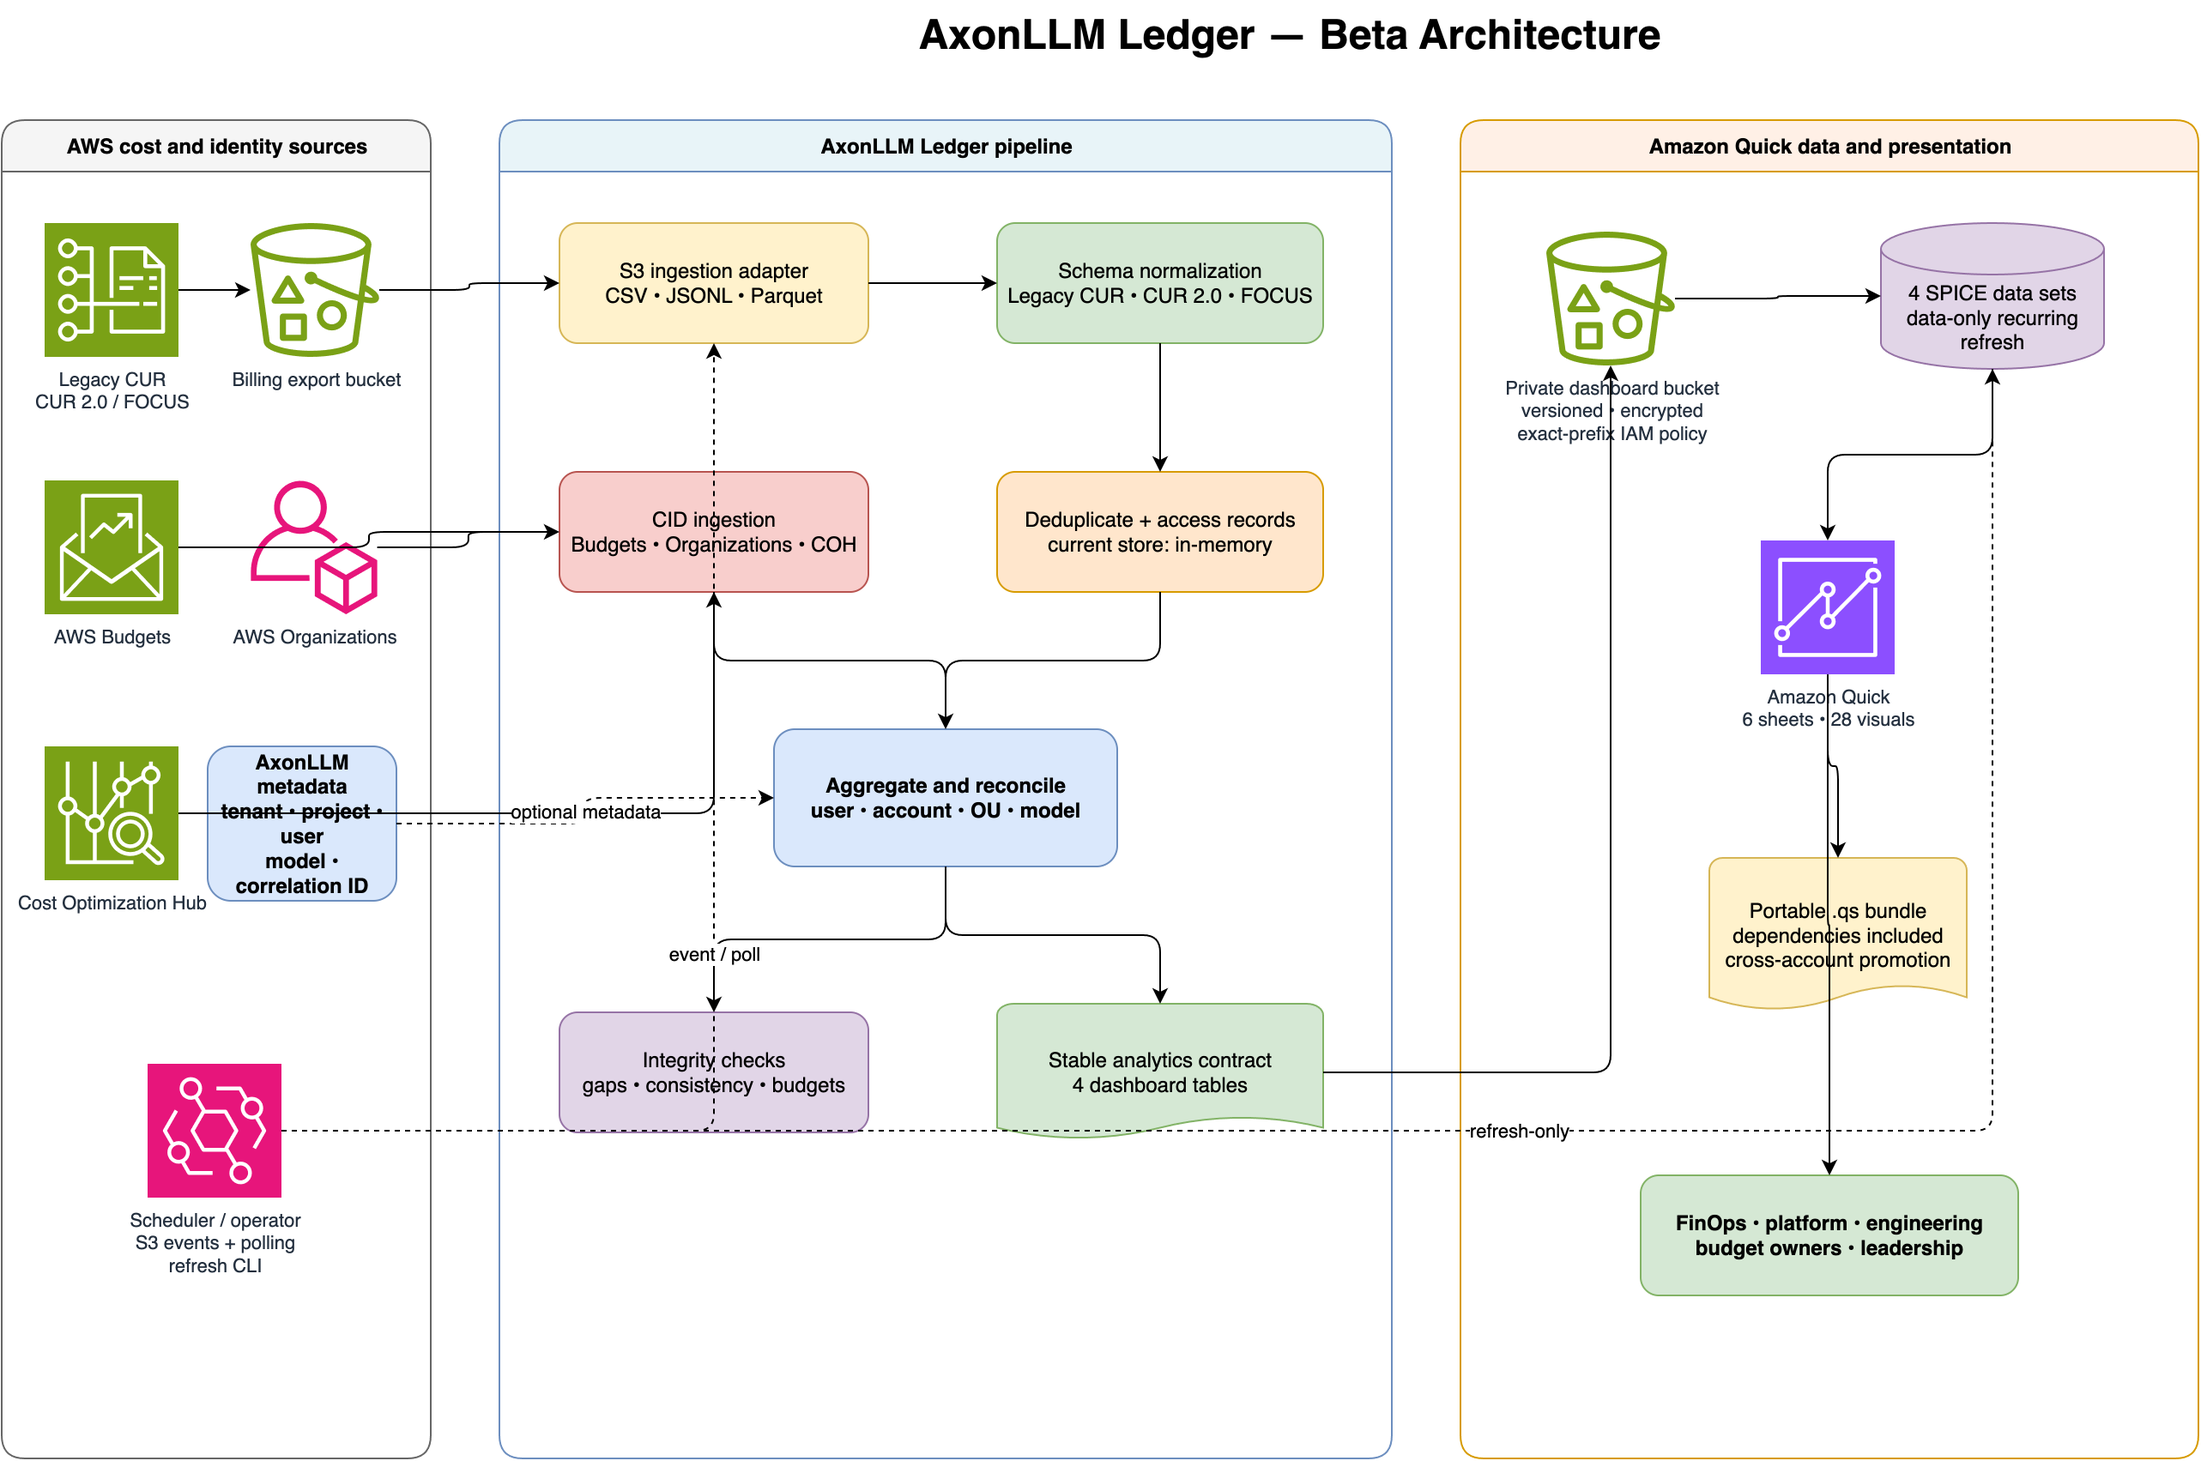
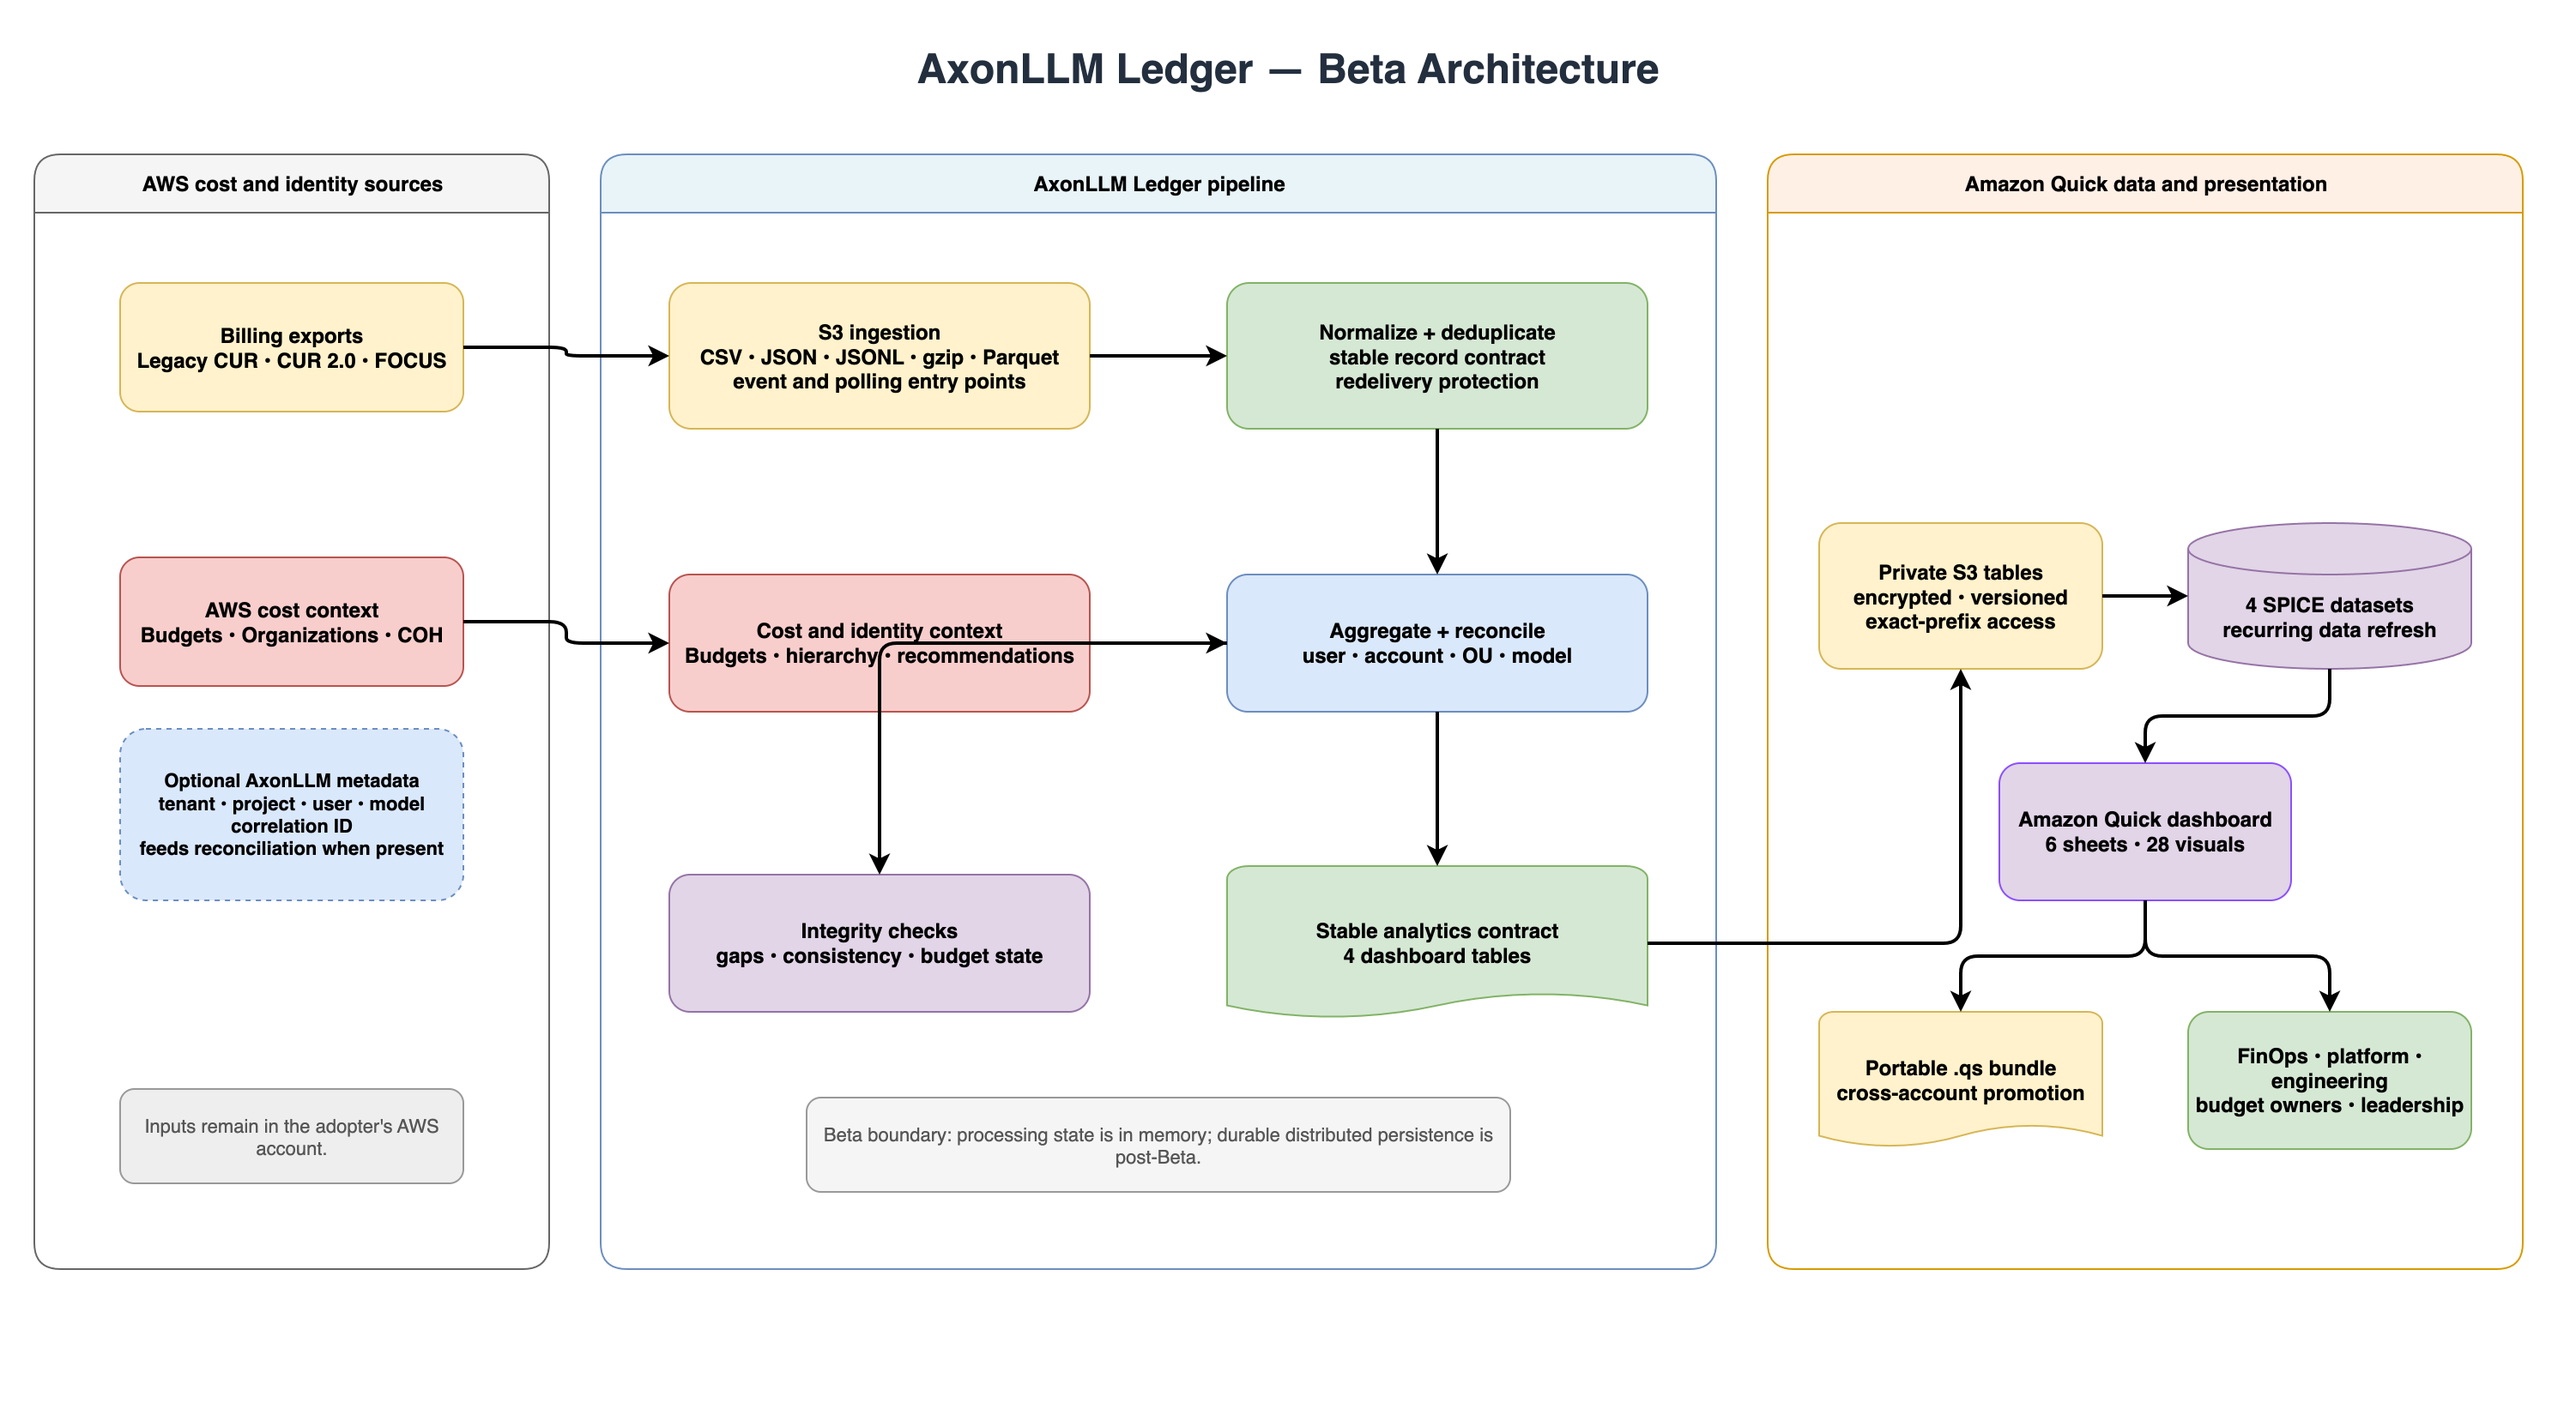
docs: expose architecture diagram

diff --git a/README.md b/README.md
@@ -60,6 +60,13 @@ Legacy CUR / CUR 2.0 / FOCUS exports
    Versioned Quick asset bundle
 ```
 
+## Architecture
+
+![AxonLLM Ledger Beta architecture](docs/architecture/axonllm-ledger.png)
+
+[Open the full-size PNG](docs/architecture/axonllm-ledger.png) or
+[edit the Draw.io source](docs/architecture/axonllm-ledger.drawio).
+
 ## Install for development
 
 Python 3.11 or later is required.
